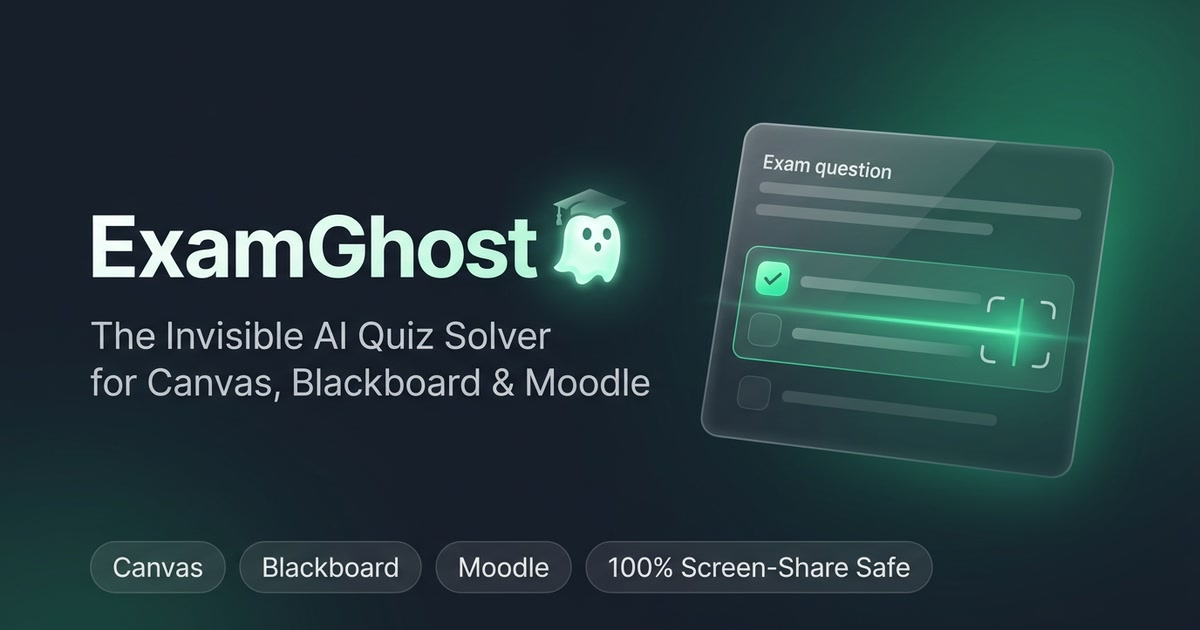
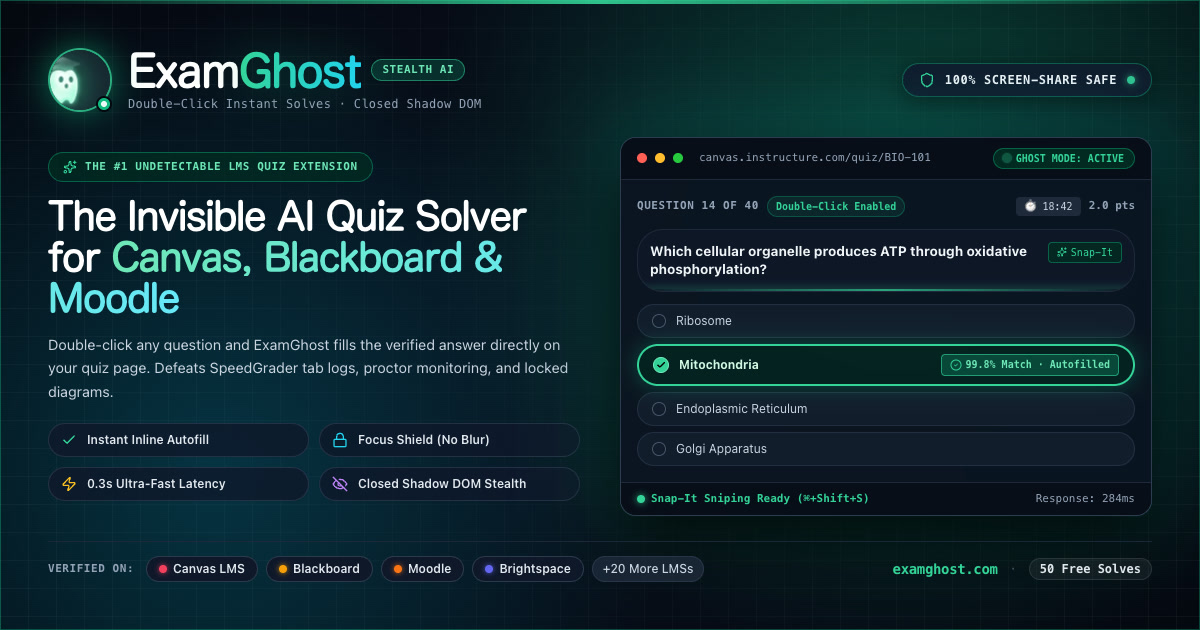
fix(og): deploy pixel-perfect Linear-grade 1200x630 OG social preview card

diff --git a/src/app/og-preview/page.tsx b/src/app/og-preview/page.tsx
@@ -1,0 +1,264 @@
+import React from 'react';
+import { Shield, Sparkles, CheckCircle2, Zap, EyeOff, Lock, Check } from 'lucide-react';
+
+export default function OGPreview() {
+  return (
+    <div 
+      id="og-card"
+      className="w-[1200px] h-[630px] bg-[#050811] text-white relative overflow-hidden flex flex-col justify-between p-12 select-none font-sans"
+      style={{
+        backgroundImage: `
+          radial-gradient(circle at 76% 28%, rgba(16, 185, 129, 0.32) 0%, transparent 48%),
+          radial-gradient(circle at 18% 75%, rgba(6, 182, 212, 0.24) 0%, transparent 42%),
+          radial-gradient(circle at 50% 50%, rgba(9, 15, 30, 0.8) 0%, transparent 100%),
+          linear-gradient(rgba(255, 255, 255, 0.04) 1px, transparent 1px),
+          linear-gradient(90deg, rgba(255, 255, 255, 0.04) 1px, transparent 1px)
+        `,
+        backgroundSize: '100% 100%, 100% 100%, 100% 100%, 28px 28px, 28px 28px'
+      }}
+    >
+      {/* Outer ambient glow border */}
+      <div className="absolute inset-0 border border-emerald-500/35 pointer-events-none" />
+      <div className="absolute top-0 left-0 right-0 h-1 bg-gradient-to-r from-transparent via-emerald-400 to-transparent opacity-90" />
+
+      {/* Top Header Row */}
+      <div className="flex items-center justify-between z-10">
+        {/* Brand Lockup */}
+        <div className="flex items-center gap-4">
+          <div className="relative">
+            <div className="w-16 h-16 rounded-full overflow-hidden border-2 border-emerald-400/80 shadow-[0_0_35px_rgba(16,185,129,0.6)] bg-[#07101e] flex items-center justify-center p-1">
+              <img 
+                src="/images/ghost/ghost_neon_crop.png" 
+                alt="ExamGhost Mascot" 
+                className="w-full h-full object-cover scale-125 drop-shadow-[0_0_12px_#34d399]"
+              />
+            </div>
+            <span className="absolute bottom-0 right-0 w-4 h-4 rounded-full bg-emerald-500 border-2 border-[#050811] flex items-center justify-center shadow-lg">
+              <span className="w-1.5 h-1.5 rounded-full bg-white animate-pulse" />
+            </span>
+          </div>
+
+          <div>
+            <div className="flex items-center gap-2.5">
+              <span className="text-[44px] font-black tracking-tight text-white font-display leading-none">
+                Exam<span className="text-transparent bg-clip-text bg-gradient-to-r from-emerald-400 via-teal-300 to-cyan-400 drop-shadow-[0_0_25px_rgba(16,185,129,0.45)]">Ghost</span>
+              </span>
+              <span className="px-2.5 py-0.5 rounded-full bg-emerald-500/20 border border-emerald-400/50 text-emerald-300 text-[11px] font-bold uppercase tracking-wider font-mono shadow-xs">
+                Stealth AI
+              </span>
+            </div>
+            <p className="text-xs text-slate-400 font-mono tracking-wide mt-1">
+              Double-Click Instant Solves · Closed Shadow DOM
+            </p>
+          </div>
+        </div>
+
+        {/* Top Right Badges */}
+        <div className="flex items-center gap-3">
+          <div className="px-4 py-2 rounded-xl bg-slate-900/90 backdrop-blur-md border border-emerald-500/40 shadow-[0_4px_24px_rgba(0,0,0,0.5)] flex items-center gap-2.5">
+            <Shield className="w-4 h-4 text-emerald-400" />
+            <span className="text-xs font-bold text-slate-100 uppercase tracking-wider font-mono">
+              100% Screen-Share Safe
+            </span>
+            <span className="w-2 h-2 rounded-full bg-emerald-400 animate-pulse shadow-[0_0_8px_#34d399]" />
+          </div>
+        </div>
+      </div>
+
+      {/* Main Body (2 Columns) */}
+      <div className="grid grid-cols-12 gap-10 items-center z-10 flex-1 my-2">
+        
+        {/* Left Column: Value Prop & Copy */}
+        <div className="col-span-6 flex flex-col justify-center">
+          {/* Eyebrow */}
+          <div className="inline-flex items-center gap-2 px-3.5 py-1.5 rounded-full bg-emerald-950/70 border border-emerald-500/40 text-emerald-300 text-xs font-semibold tracking-wide w-fit mb-3.5 shadow-sm">
+            <Sparkles className="w-3.5 h-3.5 text-emerald-400" />
+            <span className="uppercase tracking-wider font-mono text-[11px]">The #1 Undetectable LMS Quiz Extension</span>
+          </div>
+
+          {/* Headline */}
+          <h1 className="text-[38px] font-black leading-[1.08] text-white tracking-tight mb-3.5">
+            The Invisible AI Quiz Solver for <span className="text-transparent bg-clip-text bg-gradient-to-r from-emerald-300 via-teal-200 to-cyan-300">Canvas, Blackboard &amp; Moodle</span>
+          </h1>
+
+          <p className="text-[14.5px] text-slate-300 leading-relaxed mb-5 font-normal">
+            Double-click any question and ExamGhost fills the verified answer directly on your quiz page. Defeats SpeedGrader tab logs, proctor monitoring, and locked diagrams.
+          </p>
+
+          {/* Key Bullet Highlights */}
+          <div className="grid grid-cols-2 gap-2.5">
+            <div className="flex items-center gap-2.5 px-3 py-2 rounded-xl bg-slate-900/80 border border-slate-700/60 text-xs font-semibold text-slate-200 shadow-sm">
+              <Check className="w-4 h-4 text-emerald-400 shrink-0" />
+              <span>Instant Inline Autofill</span>
+            </div>
+            <div className="flex items-center gap-2.5 px-3 py-2 rounded-xl bg-slate-900/80 border border-slate-700/60 text-xs font-semibold text-slate-200 shadow-sm">
+              <Lock className="w-4 h-4 text-cyan-400 shrink-0" />
+              <span>Focus Shield (No Blur)</span>
+            </div>
+            <div className="flex items-center gap-2.5 px-3 py-2 rounded-xl bg-slate-900/80 border border-slate-700/60 text-xs font-semibold text-slate-200 shadow-sm">
+              <Zap className="w-4 h-4 text-amber-400 shrink-0" />
+              <span>0.3s Ultra-Fast Latency</span>
+            </div>
+            <div className="flex items-center gap-2.5 px-3 py-2 rounded-xl bg-slate-900/80 border border-slate-700/60 text-xs font-semibold text-slate-200 shadow-sm">
+              <EyeOff className="w-4 h-4 text-purple-400 shrink-0" />
+              <span>Closed Shadow DOM Stealth</span>
+            </div>
+          </div>
+        </div>
+
+        {/* Right Column: Realistic Canvas Exam Card with Live Solve */}
+        <div className="col-span-6 relative">
+          
+          {/* Ambient Spotlight Behind Card */}
+          <div className="absolute -inset-4 bg-gradient-to-tr from-emerald-500/25 via-teal-500/20 to-cyan-500/25 rounded-3xl blur-2xl opacity-90" />
+
+          {/* Canvas Window Card */}
+          <div className="relative bg-[#0b1220]/95 backdrop-blur-2xl rounded-2xl border border-slate-700/90 shadow-[0_25px_70px_rgba(0,0,0,0.85)] overflow-hidden">
+            
+            {/* Window Title Bar */}
+            <div className="bg-[#080d18] px-4 py-2.5 border-b border-slate-800 flex items-center justify-between">
+              <div className="flex items-center gap-2">
+                <span className="w-2.5 h-2.5 rounded-full bg-[#ff5f56]" />
+                <span className="w-2.5 h-2.5 rounded-full bg-[#ffbd2e]" />
+                <span className="w-2.5 h-2.5 rounded-full bg-[#27c93f]" />
+                <span className="text-[11px] font-mono text-slate-400 ml-2">
+                  canvas.instructure.com/quiz/BIO-101
+                </span>
+              </div>
+              <div className="flex items-center gap-1.5 px-2.5 py-0.5 rounded-full bg-emerald-950/90 border border-emerald-500/40 text-[10px] font-mono text-emerald-400 font-semibold shadow-xs">
+                <span className="w-1.5 h-1.5 rounded-full bg-emerald-400 animate-ping" />
+                <span>GHOST MODE: ACTIVE</span>
+              </div>
+            </div>
+
+            {/* Window Quiz Body */}
+            <div className="p-4 space-y-3">
+              {/* Question Meta Row */}
+              <div className="flex items-center justify-between text-[11px]">
+                <div className="flex items-center gap-2">
+                  <span className="font-mono text-slate-400 uppercase font-bold tracking-wider">
+                    Question 14 of 40
+                  </span>
+                  <span className="px-2 py-0.5 rounded-md bg-emerald-500/10 text-emerald-400 border border-emerald-500/30 text-[10px] font-mono font-semibold">
+                    Double-Click Enabled
+                  </span>
+                </div>
+                <div className="flex items-center gap-2">
+                  <span className="px-2 py-0.5 rounded bg-slate-800 text-slate-300 font-mono text-[10px]">
+                    ⏱ 18:42
+                  </span>
+                  <span className="text-slate-400 font-mono text-[11px] font-semibold">
+                    2.0 pts
+                  </span>
+                </div>
+              </div>
+
+              {/* Question Text Container with Laser Scanner */}
+              <div className="relative p-3 rounded-lg bg-slate-900/70 border border-slate-800 overflow-hidden">
+                <div className="flex items-start justify-between gap-3">
+                  <p className="text-[13.5px] font-bold text-slate-100 leading-snug">
+                    Which cellular organelle produces ATP through oxidative phosphorylation?
+                  </p>
+                  <div className="shrink-0 flex items-center gap-1 text-[10px] font-mono text-emerald-400 bg-emerald-950/80 px-2 py-0.5 rounded border border-emerald-500/40 shadow-xs">
+                    <Sparkles className="w-2.5 h-2.5" />
+                    <span>Snap-It</span>
+                  </div>
+                </div>
+                {/* Subtle laser scan line effect */}
+                <div className="absolute bottom-0 left-0 right-0 h-[1.5px] bg-gradient-to-r from-transparent via-emerald-400 to-transparent opacity-75 shadow-[0_0_8px_#34d399]" />
+              </div>
+
+              {/* Multiple Choice Options */}
+              <div className="space-y-1.5">
+                {/* Option A */}
+                <div className="px-3.5 py-2 rounded-lg bg-slate-800/40 border border-slate-700/50 flex items-center justify-between text-xs text-slate-300">
+                  <div className="flex items-center gap-2.5">
+                    <span className="w-3.5 h-3.5 rounded-full border border-slate-600 inline-block" />
+                    <span>Ribosome</span>
+                  </div>
+                </div>
+
+                {/* Option B (SOLVED & VERIFIED INLINE) */}
+                <div className="relative px-3.5 py-2 rounded-lg bg-emerald-950/60 border-2 border-emerald-400 shadow-[0_0_22px_rgba(16,185,129,0.35)] flex items-center justify-between text-xs text-white">
+                  <div className="flex items-center gap-2.5 font-bold">
+                    <span className="w-4 h-4 rounded-full bg-emerald-400 border border-emerald-300 flex items-center justify-center shadow-md">
+                      <Check className="w-2.5 h-2.5 text-black stroke-[3.5]" />
+                    </span>
+                    <span className="text-emerald-100">Mitochondria</span>
+                  </div>
+                  <div className="flex items-center gap-1 px-2 py-0.5 rounded bg-emerald-500/25 border border-emerald-400/60 text-[10px] font-mono text-emerald-300 font-semibold shadow-xs">
+                    <CheckCircle2 className="w-3 h-3 text-emerald-400" />
+                    <span>99.8% Match · Autofilled</span>
+                  </div>
+                </div>
+
+                {/* Option C */}
+                <div className="px-3.5 py-2 rounded-lg bg-slate-800/40 border border-slate-700/50 flex items-center justify-between text-xs text-slate-300">
+                  <div className="flex items-center gap-2.5">
+                    <span className="w-3.5 h-3.5 rounded-full border border-slate-600 inline-block" />
+                    <span>Endoplasmic Reticulum</span>
+                  </div>
+                </div>
+
+                {/* Option D */}
+                <div className="px-3.5 py-2 rounded-lg bg-slate-800/40 border border-slate-700/50 flex items-center justify-between text-xs text-slate-300">
+                  <div className="flex items-center gap-2.5">
+                    <span className="w-3.5 h-3.5 rounded-full border border-slate-600 inline-block" />
+                    <span>Golgi Apparatus</span>
+                  </div>
+                </div>
+              </div>
+            </div>
+
+            {/* Bottom Status bar inside card */}
+            <div className="bg-[#080d18] px-4 py-2 border-t border-slate-800 flex items-center justify-between text-[11px] font-mono text-slate-400">
+              <span className="flex items-center gap-1.5 text-emerald-400 font-semibold">
+                <span className="w-2 h-2 rounded-full bg-emerald-400 shadow-[0_0_8px_#34d399]" />
+                <span>Snap-It Sniping Ready (⌘+Shift+S)</span>
+              </span>
+              <span className="text-slate-400">Response: 284ms</span>
+            </div>
+          </div>
+        </div>
+      </div>
+
+      {/* Bottom Footer Row: Platform Badges */}
+      <div className="flex items-center justify-between pt-3.5 border-t border-slate-800/90 z-10">
+        <div className="flex items-center gap-3">
+          <span className="text-[11px] font-mono uppercase text-slate-400 font-bold tracking-wider">
+            Verified On:
+          </span>
+          <div className="flex items-center gap-2">
+            <span className="px-3 py-1 rounded-lg bg-slate-900 border border-slate-700/80 text-xs font-semibold text-slate-200 flex items-center gap-1.5 shadow-xs">
+              <span className="w-2 h-2 rounded-full bg-rose-500 shadow-[0_0_6px_#f43f5e]" />
+              Canvas LMS
+            </span>
+            <span className="px-3 py-1 rounded-lg bg-slate-900 border border-slate-700/80 text-xs font-semibold text-slate-200 flex items-center gap-1.5 shadow-xs">
+              <span className="w-2 h-2 rounded-full bg-amber-500 shadow-[0_0_6px_#f59e0b]" />
+              Blackboard
+            </span>
+            <span className="px-3 py-1 rounded-lg bg-slate-900 border border-slate-700/80 text-xs font-semibold text-slate-200 flex items-center gap-1.5 shadow-xs">
+              <span className="w-2 h-2 rounded-full bg-orange-500 shadow-[0_0_6px_#f97316]" />
+              Moodle
+            </span>
+            <span className="px-3 py-1 rounded-lg bg-slate-900 border border-slate-700/80 text-xs font-semibold text-slate-200 flex items-center gap-1.5 shadow-xs">
+              <span className="w-2 h-2 rounded-full bg-indigo-500 shadow-[0_0_6px_#6366f1]" />
+              Brightspace
+            </span>
+            <span className="px-2.5 py-1 rounded-lg bg-slate-800/80 border border-slate-700/60 text-xs text-slate-300 font-medium">
+              +20 More LMSs
+            </span>
+          </div>
+        </div>
+
+        <div className="flex items-center gap-3 text-xs font-mono text-slate-400">
+          <span className="text-emerald-400 font-bold text-sm tracking-tight">examghost.com</span>
+          <span className="text-slate-600">·</span>
+          <span className="px-2.5 py-0.5 rounded-full bg-white/5 border border-white/10 text-slate-200 font-semibold">
+            50 Free Solves
+          </span>
+        </div>
+      </div>
+    </div>
+  );
+}
